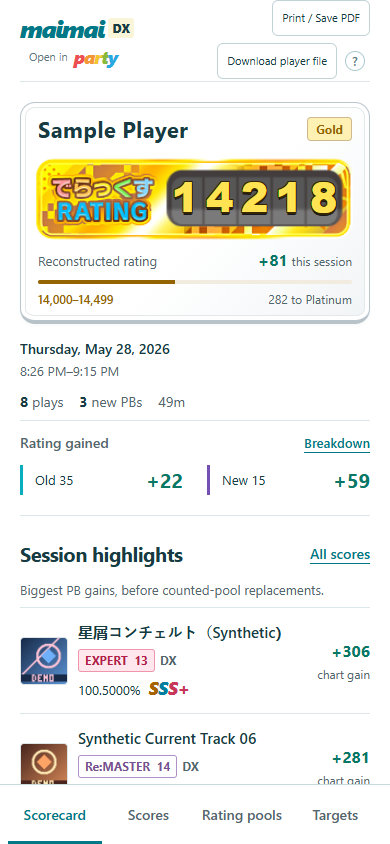
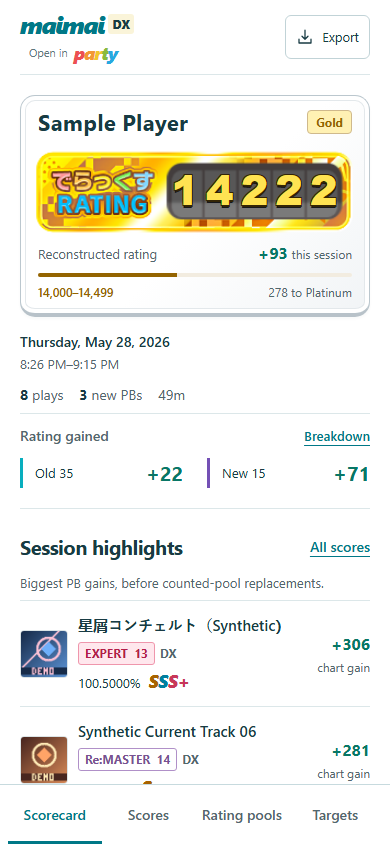
Document compact exports and refresh the phone preview

diff --git a/docs/PLAYER_FILE.md b/docs/PLAYER_FILE.md
@@ -14,7 +14,7 @@ Nothing transfers just from opening a report. If you choose **Not now**, you can
 
 ## Using a player file
 
-1. Choose **Download player file** in your report. It saves a file named `player.maimai.json.gz`; leave it compressed.
+1. Choose **Download player file** in your report. On smaller screens, open **Export** first. It saves a file named `player.maimai.json.gz`; leave it compressed.
 2. Open [maimai.party](https://maimai.party), then open the gear menu.
 3. Choose **Import player data** and select that file.
 4. Check the profile, then choose **Import data**.
